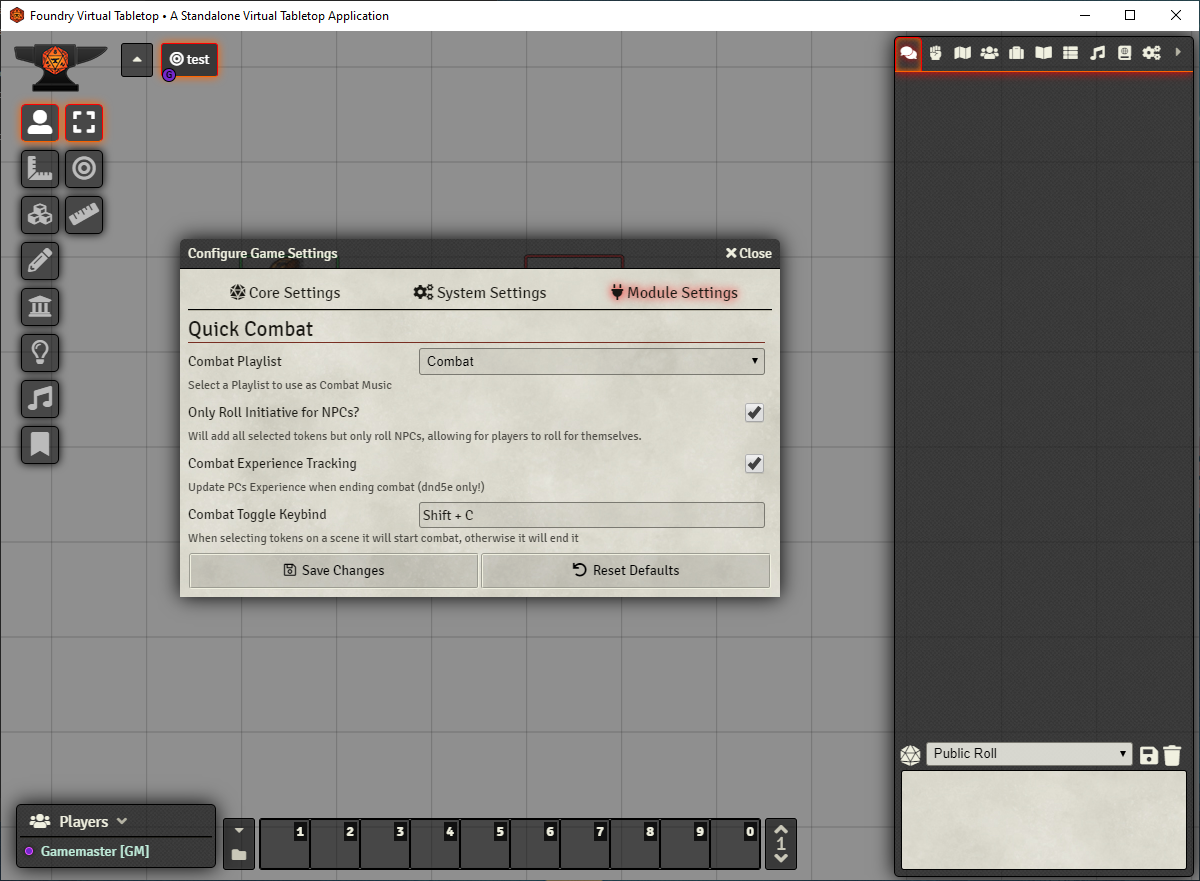
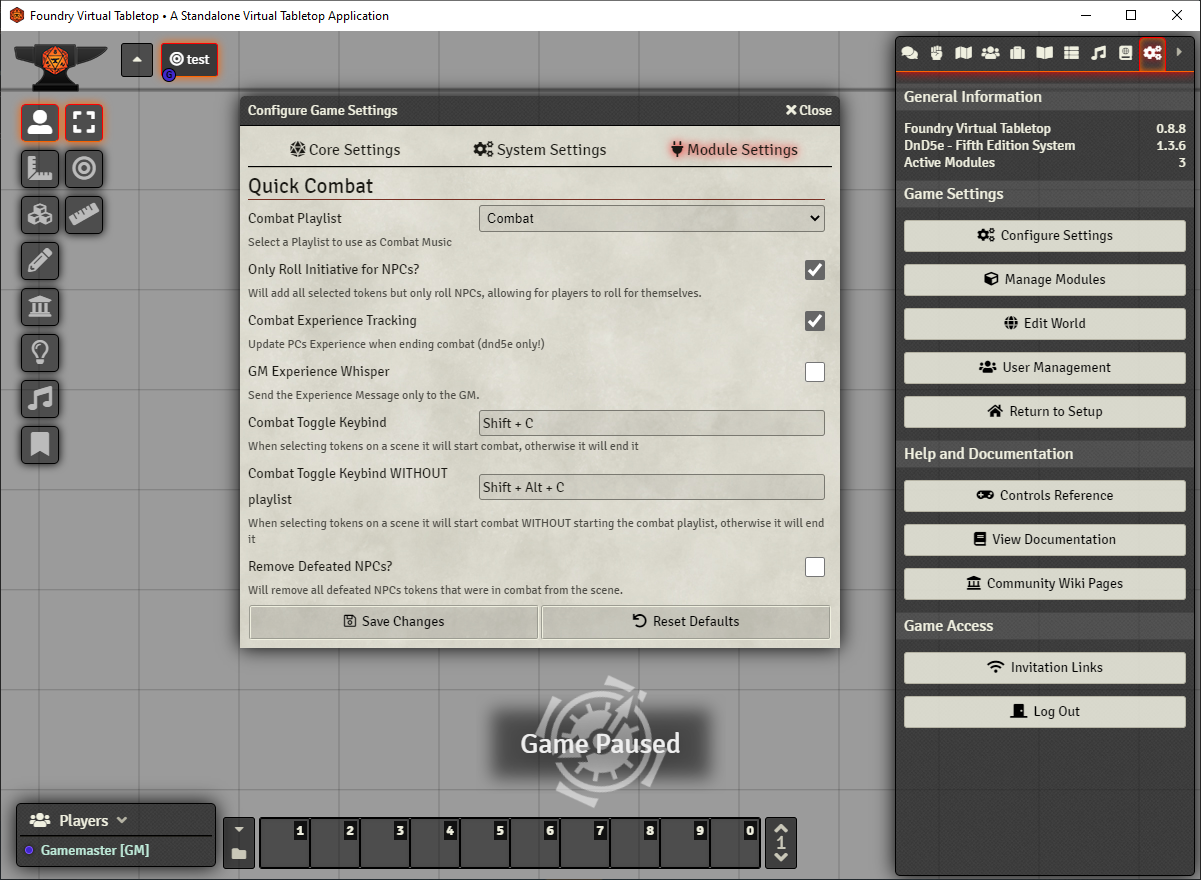
added new feature and updated readme

diff --git a/quick-combat.js b/quick-combat.js
@@ -1,5 +1,7 @@
 import {KeyBinding} from '../settings-extender/settings-extender.js'
 
+var skipPlaylist = false;
+
 class QuickCombat {
 	static init() {
 		console.debug("quick-combat | register settings")
@@ -54,6 +56,15 @@ class QuickCombat {
 			scope: "world",
 			config: true,
 			default: "Shift + C",
+			type: KeyBinding,
+		});
+
+		game.settings.register("quick-combat", "keyalt", {
+			name: "QuickCombat.KeybindAlt",
+			hint: "QuickCombat.KeybindAltHint",
+			scope: "world",
+			config: true,
+			default: "Shift + Alt + C",
 			type: KeyBinding,
 		});
 
@@ -130,46 +141,51 @@ class QuickCombat {
 			defeated.push(a.name); 
 		});
 		let pcs = combat.combatants.filter(x => x.actor.hasPlayerOwner);
-		exp = Math.round(exp / pcs.length);
-
-		console.log(`quick-combat | awarding exp ${exp} to PCs`)
-		if (exp != 0 && !isNaN(exp)) {
-			let actor_exp_msg = "<table>";
-			pcs.forEach(function(a) {
-				let new_exp = a.actor.data.data.details.xp.value + exp
-				let level_up = ""
-				if (new_exp >= a.actor.data.data.details.xp.max) {
-					level_up = "<td><strong>" + game.i18n.localize("QuickCombat.LevelUp") + "</strong></td>"
-					let cl = a.actor.items.find(a => a.type == "class")
-					cl.update({
-						"data.levels": cl.data.data.levels + 1
-					})					
-					
-				}
-				actor_exp_msg += "<tr><td><img src='" + a.img + "' width='50' height='50'></td><td><strong>" + a.name + "</strong></td><td>" + a.actor.data.data.details.xp.value + " &rarr; " + new_exp + "</p></td>" + level_up + "</tr>"
-				a.actor.update({
-					"data.details.xp.value": new_exp
-				});
-			});
-			let msg = "<p>" + game.i18n.localize("QuickCombat.ExperienceMessageStart") + " <strong>" + defeated.join(", ") + "</strong> " + game.i18n.localize("QuickCombat.ExperienceMessageMid") + " <strong>" + exp + "</strong> " + game.i18n.localize("QuickCombat.ExperienceMessageEnd") + "</p>" + actor_exp_msg + "</table>";
-			
-			if (game.settings.get("quick-combat", "expgm")) {
-				ChatMessage.create({
-					user: userId, 
-					content: msg,
-					whisper: game.users.contents.filter(u => u.isGM).map(u => u.id)
-				}, {});
-			}
-			else {
-				ChatMessage.create({
-					user: userId, 
-					content: msg,
-					type: CONST.CHAT_MESSAGE_TYPES.OTHER
-				}, {});
-			}
+		if (pcs.length < 1 ) {
+			ui.notifications.error(game.i18n.localize("QuickCombat.noPlayerError"));
 		}
 		else {
-			console.info("quick-combat | no exp for PCs")
+			exp = Math.round(exp / pcs.length);
+
+			console.log(`quick-combat | awarding exp ${exp} to PCs`)
+			if (exp != 0 && !isNaN(exp)) {
+				let actor_exp_msg = "<table>";
+				pcs.forEach(function(a) {
+					let new_exp = a.actor.data.data.details.xp.value + exp
+					let level_up = ""
+					if (new_exp >= a.actor.data.data.details.xp.max) {
+						level_up = "<td><strong>" + game.i18n.localize("QuickCombat.LevelUp") + "</strong></td>"
+						let cl = a.actor.items.find(a => a.type == "class")
+						cl.update({
+							"data.levels": cl.data.data.levels + 1
+						})					
+						
+					}
+					actor_exp_msg += "<tr><td><img src='" + a.img + "' width='50' height='50'></td><td><strong>" + a.name + "</strong></td><td>" + a.actor.data.data.details.xp.value + " &rarr; " + new_exp + "</p></td>" + level_up + "</tr>"
+					a.actor.update({
+						"data.details.xp.value": new_exp
+					});
+				});
+				let msg = "<p>" + game.i18n.localize("QuickCombat.ExperienceMessageStart") + " <strong>" + defeated.join(", ") + "</strong> " + game.i18n.localize("QuickCombat.ExperienceMessageMid") + " <strong>" + exp + "</strong> " + game.i18n.localize("QuickCombat.ExperienceMessageEnd") + "</p>" + actor_exp_msg + "</table>";
+				
+				if (game.settings.get("quick-combat", "expgm")) {
+					ChatMessage.create({
+						user: userId, 
+						content: msg,
+						whisper: game.users.contents.filter(u => u.isGM).map(u => u.id)
+					}, {});
+				}
+				else {
+					ChatMessage.create({
+						user: userId, 
+						content: msg,
+						type: CONST.CHAT_MESSAGE_TYPES.OTHER
+					}, {});
+				}
+			}
+			else {
+				console.info("quick-combat | no exp for PCs")
+			}
 		}
 	}
 	
@@ -221,33 +237,50 @@ Hooks.once("ready", function() {
 		if (ev.repeat || document.activeElement.tagName !== "BODY" || !game.users.filter(a => a.id == game.userId)[0].isGM)
 			return true;
 
+		let start_combat = false;
+		let setting_alt = game.settings.get("quick-combat", "keyalt")
+		if (setting_alt != null) {
+			const keyalt = KeyBinding.parse(setting_alt)
+			if (KeyBinding.eventIsForBinding(ev, keyalt)) {
+				start_combat = true;
+				skipPlaylist = true;
+				console.debug("quick-combat | alt hotkey pressed")
+			}
+		}
 		let setting_key = game.settings.get("quick-combat", "key")
-		if (setting_key != null) {
+		if (setting_key != null && !start_combat) {
 			const key = KeyBinding.parse(setting_key)
 			if (KeyBinding.eventIsForBinding(ev, key)) {
-				ev.preventDefault();
-				ev.stopPropagation();
-				if (game.settings.get("quick-combat", "inCombat")) {
-					let combat = game.combat;
-					if (combat) {
-						combat.endCombat();
-					}
-					else {
-						game.settings.set("quick-combat", "inCombat", false)
-					}
+				start_combat = true;
+				skipPlaylist = false;
+				console.debug("quick-combat | hotkey pressed")
+			}
+		}
+
+		if (start_combat) {
+			console.log("hotkey trigger !!!!", skipPlaylist)
+			ev.preventDefault();
+			ev.stopPropagation();
+			if (game.settings.get("quick-combat", "inCombat")) {
+				let combat = game.combat;
+				if (combat) {
+					combat.endCombat();
 				}
 				else {
-					//check if combat tracker has combatants
-					if(combat.combatants && combat.combatants.length > 0) {
-						game.combat.startCombat();
-					}
-					//check if GM has any selected tokens
-					else if (canvas.tokens.controlled.length === 0) {
-						ui.notifications.error(game.i18n.localize("QuickCombat.KeyError"));
-					}
-					else {
-						QuickCombat.addCombatants();
-					}
+					game.settings.set("quick-combat", "inCombat", false)
+				}
+			}
+			else {
+				//check if combat tracker has combatants
+				if(combat.combatants && combat.combatants.length > 0) {
+					game.combat.startCombat();
+				}
+				//check if GM has any selected tokens
+				else if (canvas.tokens.controlled.length === 0) {
+					ui.notifications.error(game.i18n.localize("QuickCombat.KeyError"));
+				}
+				else {
+					QuickCombat.addCombatants();
 				}
 			}
 		}
@@ -265,6 +298,7 @@ Hooks.on("preDeleteCombat", (combat, options, userId) => {
 		return true;
 	console.debug("quick-combat | triggering end of combat functions")
 	game.settings.set("quick-combat", "inCombat", false);
+	skipPlaylist = false;
 	if (game.settings.get("quick-combat", "exp")) {
 		QuickCombat.awardExp(combat, userId);
 	}
@@ -279,7 +313,10 @@ Hooks.on("preUpdateCombat", (combat, route, options, userId) => {
 	console.debug("quick-combat | triggering start combat functions")
 	if (!game.settings.get("quick-combat", "inCombat")) {
 		game.settings.set("quick-combat", "inCombat", true);
-		if (game.settings.get("quick-combat", "playlist") != 0) {
+		let playlist = game.settings.get("quick-combat", "playlist")
+		console.log("update combat trigger !!!!", playlist != 0, !skipPlaylist)
+		if (!skipPlaylist && game.settings.get("quick-combat", "playlist") != 0) {
+			console.log("quick-combat | start combat playlist")
 			QuickCombat.startPlaylist();
 		}
 	}

diff --git a/README.md b/README.md
@@ -22,6 +22,7 @@ This module has been tested with the D&D 5E system. Plan is to make it available
 * **Combat Experience Tracking** - (DND5E Only!) For any defeated NPCs will add any experience and for all PCs in combat will add any gained experience.
 * **GM Experience Whisper** - Only Message the GM the experience gained.
 * **Combat Toggle Keybind** - Keybind combination to start and stop combat.
+* **Combat Toggle Keybind Alt** - Keybind combination to start and stop combat, without starting the Combat Playlist.
 * **Remove Defeated NPCs?** - Will delete any of the defeated NPC tokens from the scene.
 
 ### Start Combat
@@ -29,7 +30,7 @@ This module has been tested with the D&D 5E system. Plan is to make it available
 
 Select all tokens for combat.
 
-Hit the Combat Toggle Keybind hot key.
+Hit the Combat Toggle Keybind or Alt Toggle Keybind hot key.
 
 ![Quick Combat Start](images/combat-start.png)
 
@@ -38,9 +39,9 @@ Adds all selected tokens to combat tracker, rolls all tokens initiatives, starts
 ### End Combat
 ![Quick Combat End](images/end-combat-warning.png)
 
-Hit the Combat Toggle Keybind hot key, a warning will pop up to make sure it wasn't an accident.
+Hit the Combat Toggle Keybind or the Alt Toggle Keybind hot key, a warning will pop up to make sure it wasn't an accident.
 
-Will remove all combatants, and if experience tracking was enabled will find all defeated NPCs, calcuate experience and display a chat box with all PCs experience.
+Will remove all combatants, and if experience tracking was enabled will find all defeated NPCs, calculate experience and display a chat box with all PCs experience.
 
 ![Quick End Experience](images/experience-tracking.png)
 
@@ -65,3 +66,19 @@ If set up will only roll for NPC combatants and not PCs.
 
 ![Quick Combat NPC Rolls](images/npc-roll.png)
 
+
+### GM Experience Whisper
+![Quick Combat Settings GM EXP Whisper](images/settings-exp-whisper.png)
+
+If enabled it will only send the experience chat message to the GM, but will still distribute experience to PCs.
+
+![Quick Combat GM EXP Whisper](images/exp-whisper.png)
+
+
+### Remove Defeated NPCs?
+![Quick Combat Settings Remove Defeated](images/settings-remove-defeated.png)
+
+If enabled it will delete any defeated NPC tokens from the scene.
+
+![Quick Combat Remove Defeated Before](images/removed-defeated-before.png)
+![Quick Combat Remove Defeated After](images/removed-defeated-after.png)
